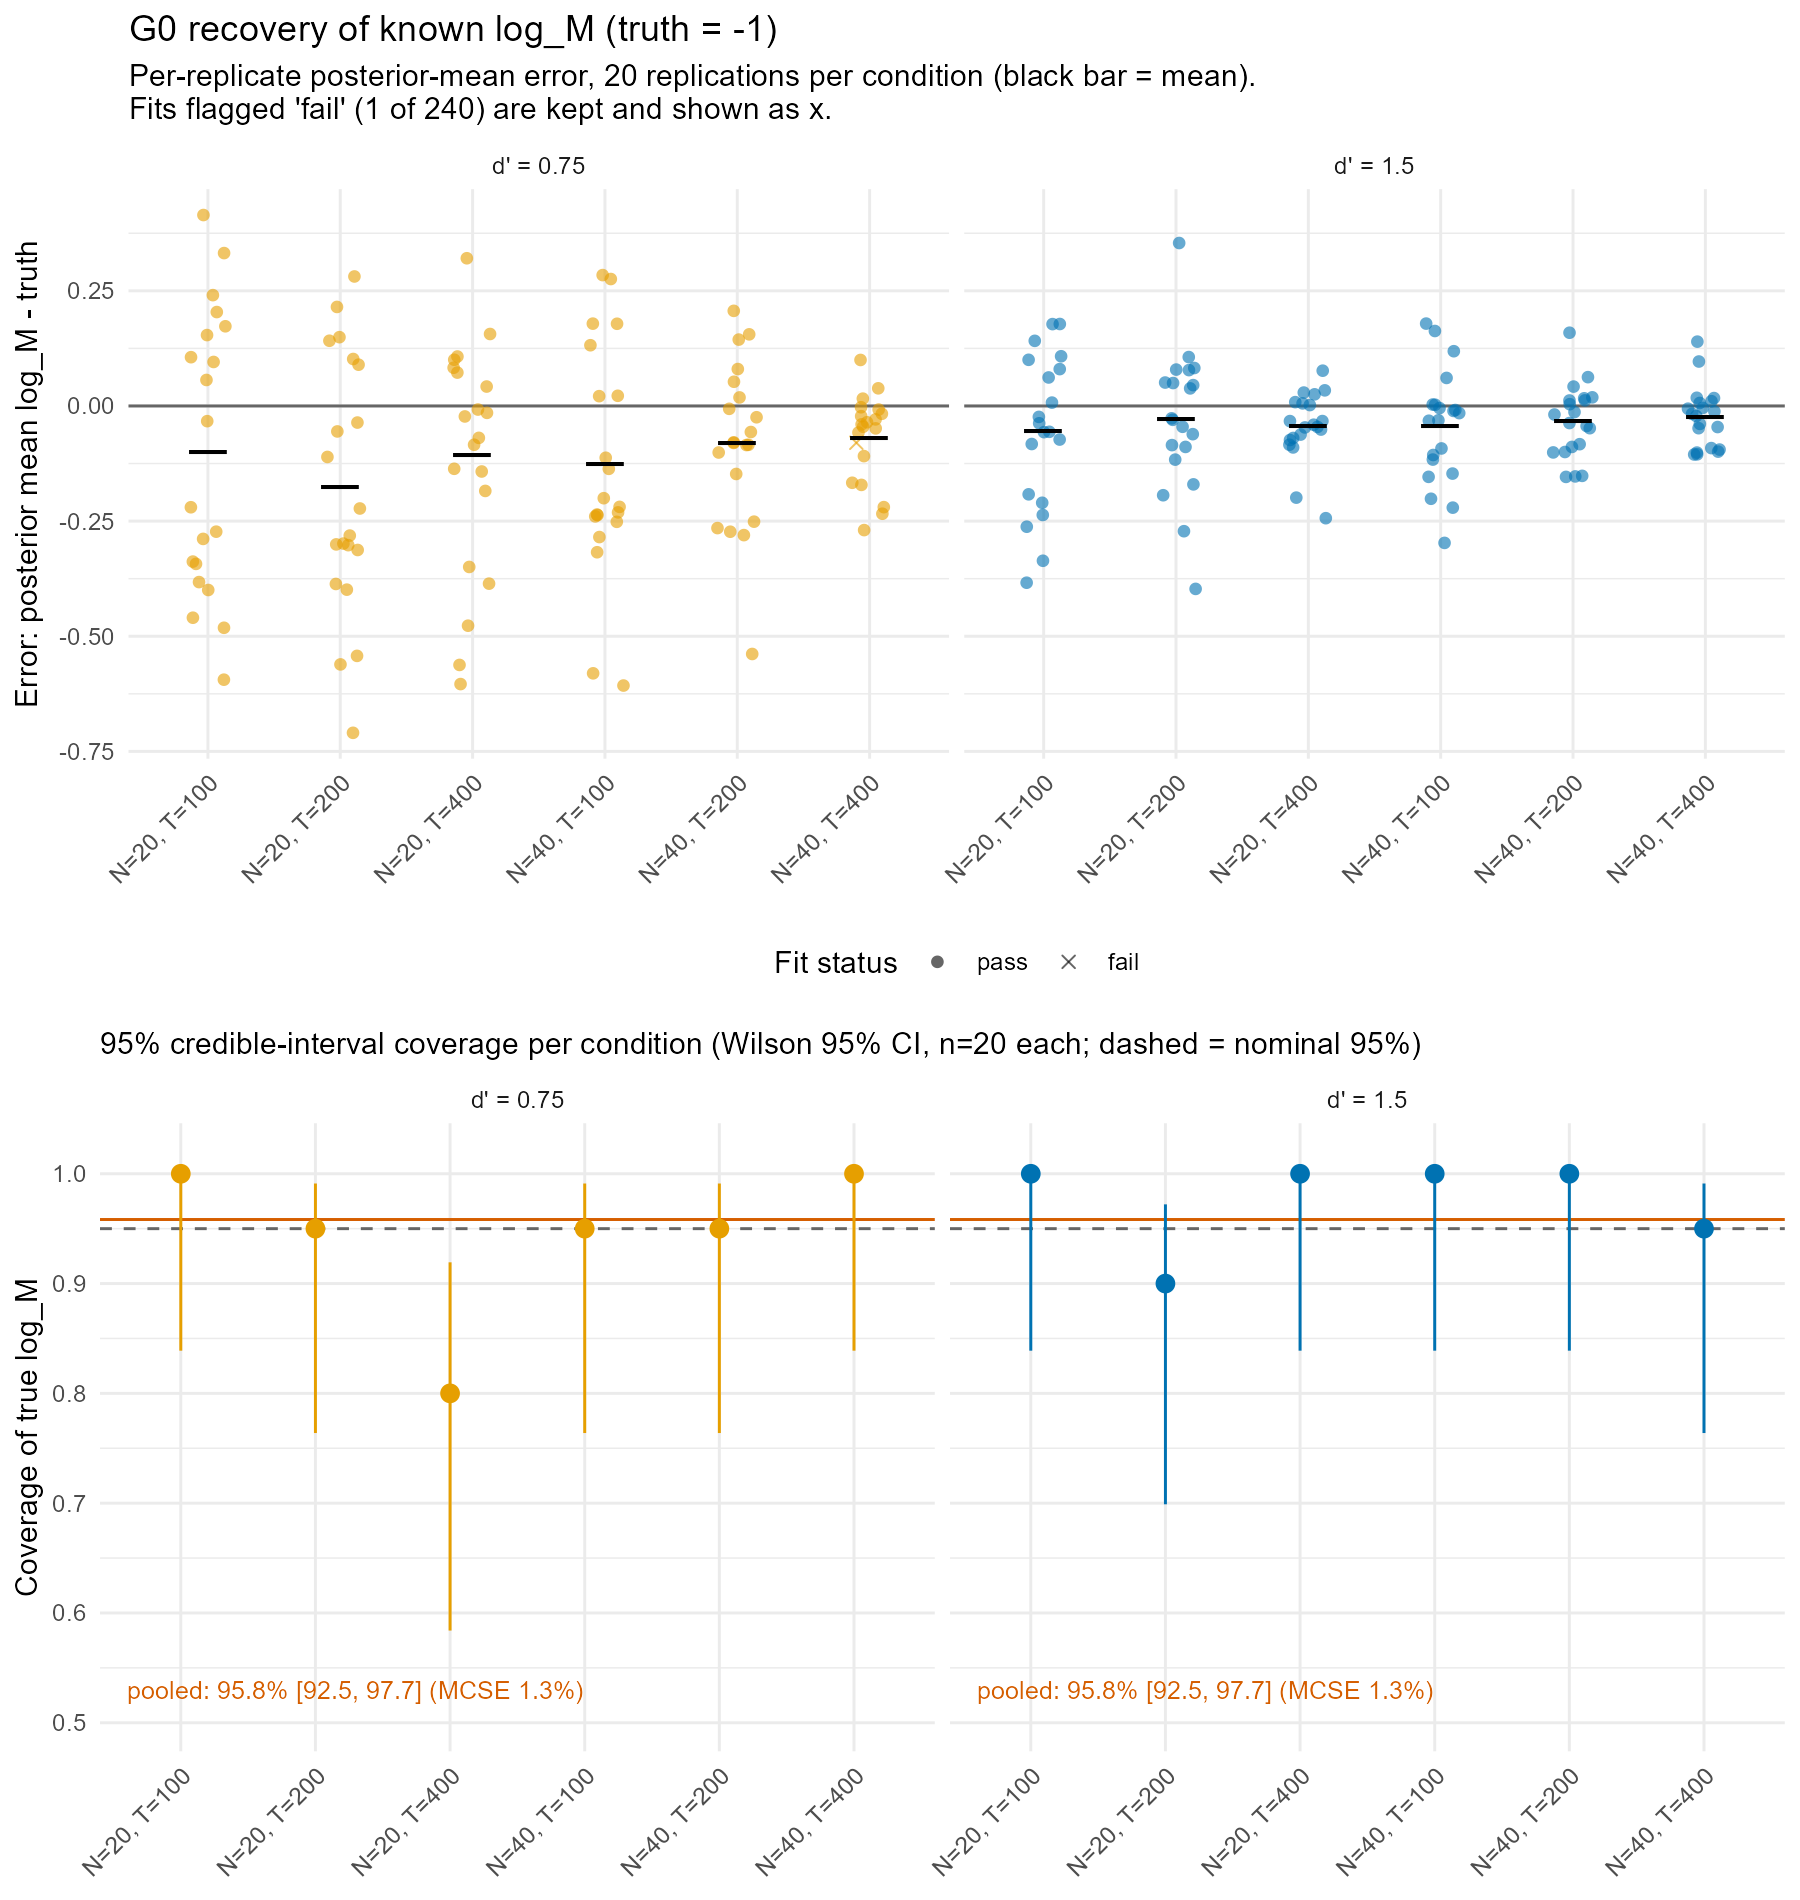
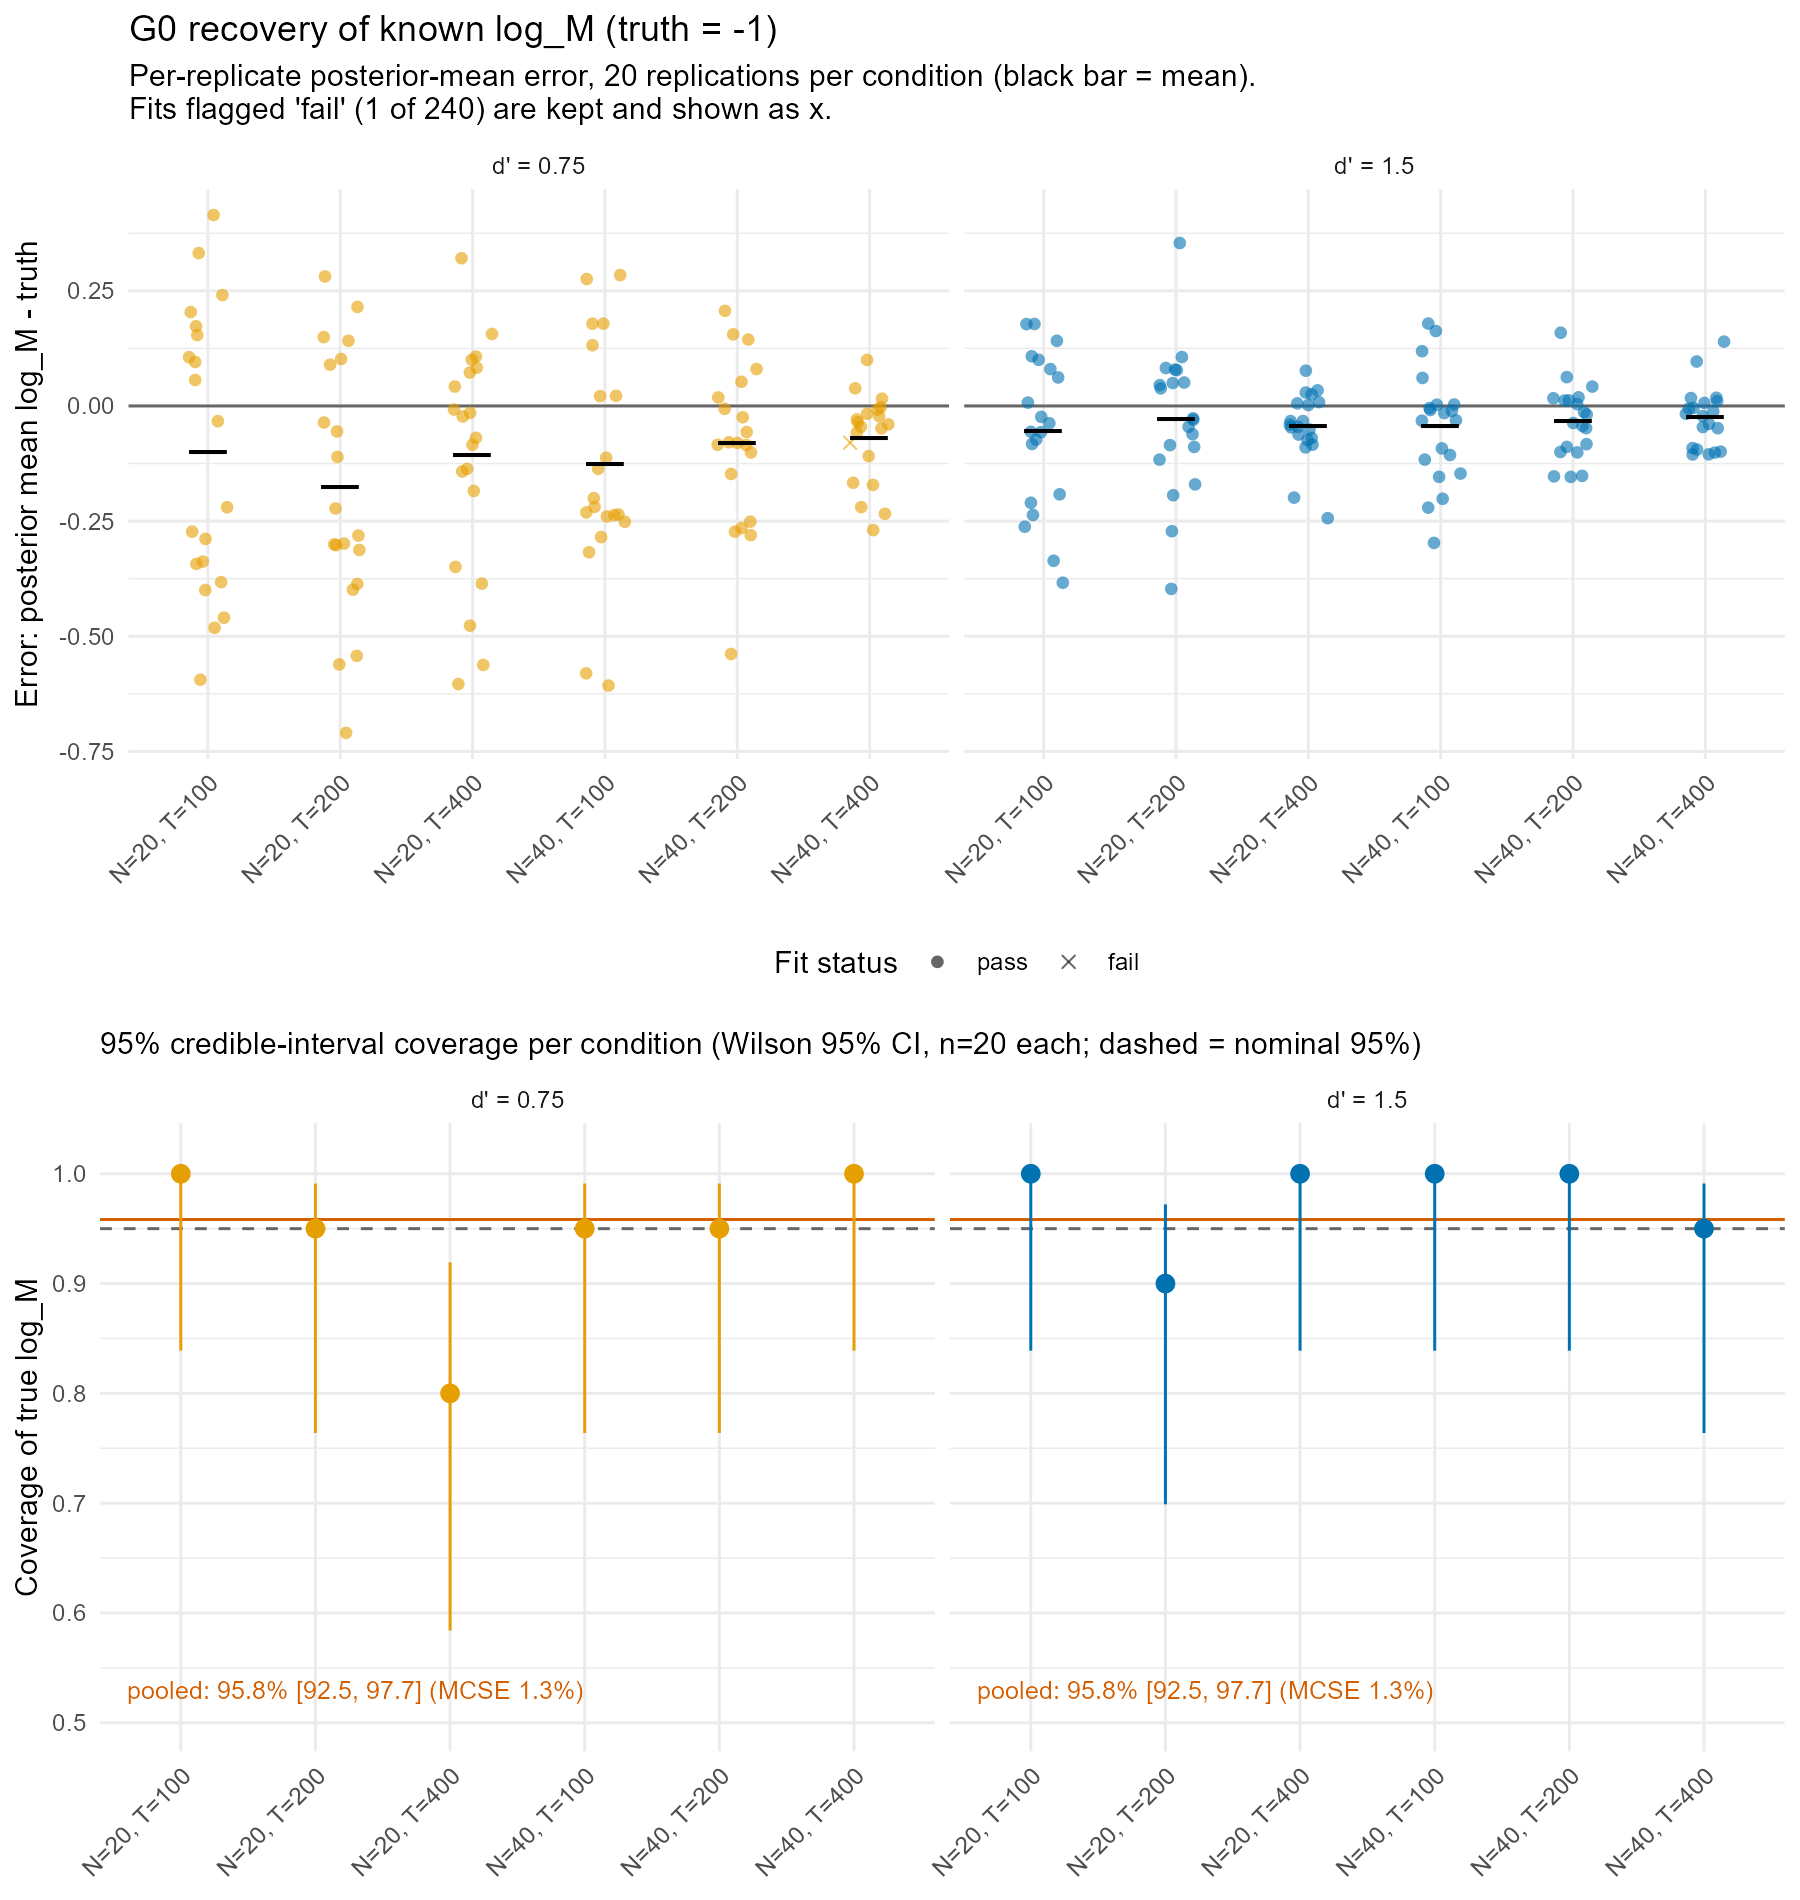
chore: seed figure jitter, log fresh-clone check and checklist status

diff --git a/docs/analysis_log.md b/docs/analysis_log.md
@@ -927,3 +927,20 @@ The report uses the verified table above.
 - **26-28.** Fig 2 subtitle grammar; Fig 3 legend (done earlier); Fig 5 title no longer claims all fits
   "track the joint counts closely" (now: discrepancies are small for every fit, including the misspecified one).
 - 24 (README compute-time note) was already present.
+
+## 2026-09-28 — Review items 29-37 (partial): framing, checklist, clone check
+
+- Report and README reframed: RQ1 is a validity check (readout noise removes information, so a working
+  model should register it); RQ2 (misspecification visible to LOO and in `log_M`, not in aggregate PPC)
+  is presented as the main finding. Abstract conclusion, RQ labels and Discussion ("Framing" paragraph)
+  changed after seeing all results; noted here rather than presented as pre-planned.
+- Limitations extended: unvaried brms default priors (xi); one seed base/environment/backend (xii);
+  next steps now include varying the SD prior. Reproducibility statement lists all corrected errors.
+- Added `docs/deliverables_checklist.md` (with open items: reference check, full-pipeline reproduction,
+  tag, archive) and `docs/summaries.md` (CV line, ~100-word summary, caveats).
+- Fresh-clone check: a clean `git clone` rebuilds all five figures from tracked files alone. It exposed
+  that figs 2-4 used unseeded jitter, so reruns changed the PNG bytes; `set.seed(20260923)` added and
+  two consecutive runs now produce identical files. The full pipeline (renv::restore, fits) was not
+  re-run from a clone.
+- Not done: v1.0.0 tag (awaiting the project owner), Zenodo/OSF archive (optional), verification of
+  `references.bib`.

diff --git a/docs/deliverables_checklist.md b/docs/deliverables_checklist.md
@@ -16,7 +16,7 @@ Status as of 2026-09-28. "Done" means produced and committed; it does not mean e
 | Supplementary methods | `manuscript/supplementary_methods.md` | Draft |
 | References | `manuscript/references.bib` | **Unverified** (entered from memory) |
 | Prior record | `outputs/tables/prior_summary.csv` | Done |
-| Fresh-clone reproduction check | n/a | Not done |
+| Fresh-clone check (figures only) | n/a | Done 2026-09-28: all five figures rebuild from a clean clone; full-pipeline reproduction (renv::restore + fits) not done |
 | `make` targets run end to end | `Makefile` | Not run (`make` not installed); scripts run individually |
 | Release tag (v1.0.0) | n/a | Not done, awaiting the project owner |
 | Archive (Zenodo/OSF) | n/a | Optional, not done |
